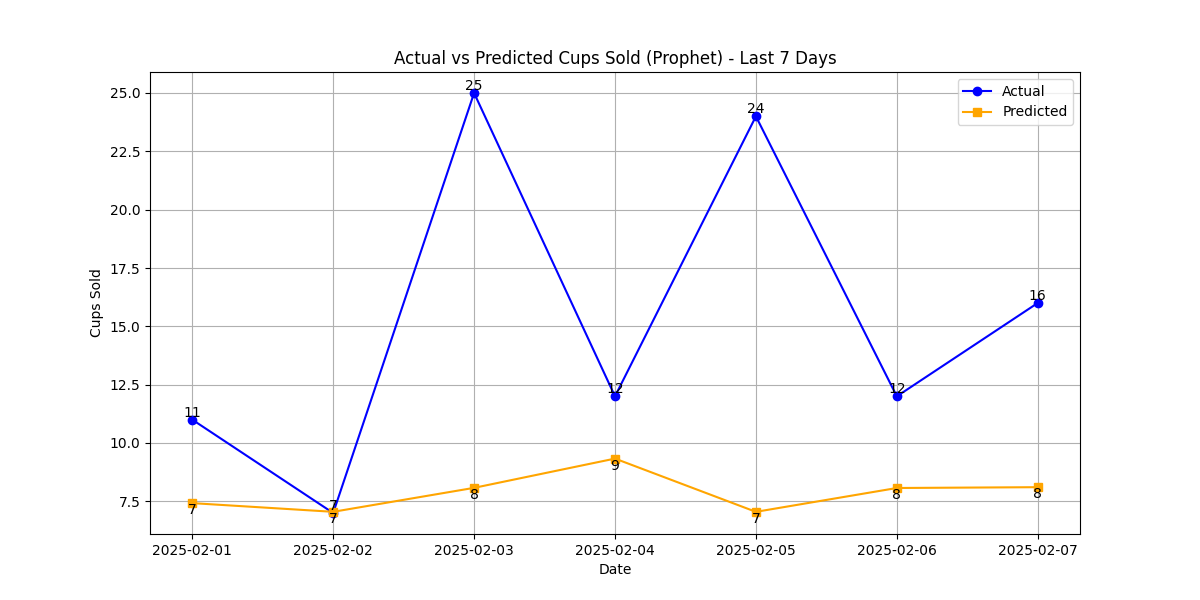
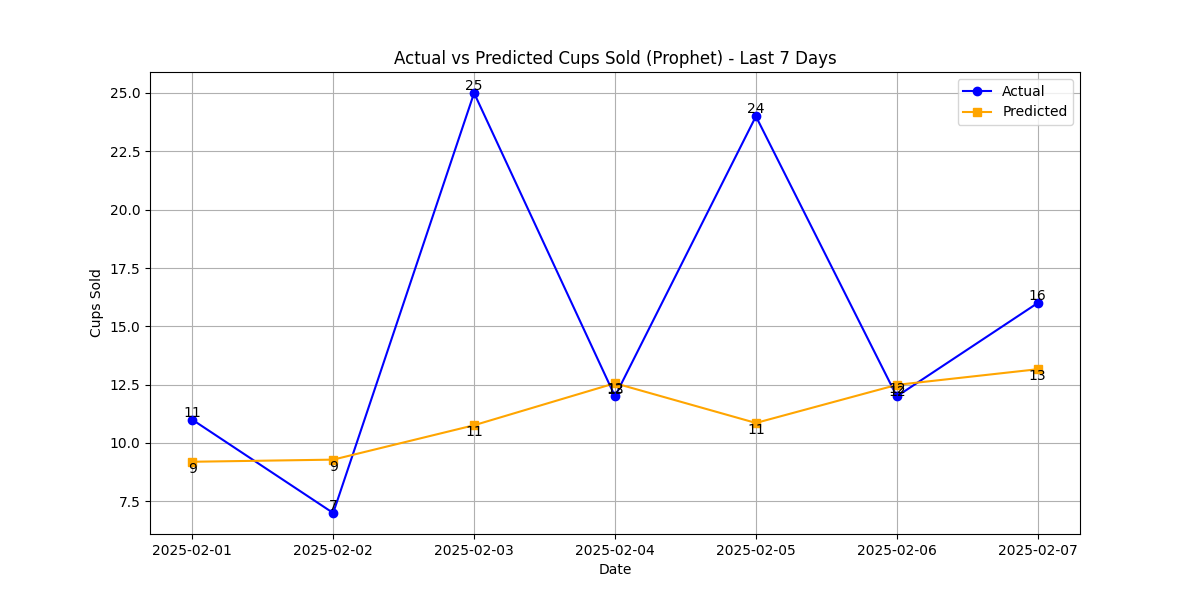
fbprophet for weather completed -- at 10:49 AM, Friday, 12 Dec 2025

diff --git a/scripts/weather_data_forecasting/fbprophet_forecasting.py b/scripts/weather_data_forecasting/fbprophet_forecasting.py
@@ -331,16 +331,18 @@ class ProphetForecaster:
 
 # Instantiate and run
 model = ProphetForecaster(
-    data_path=Path(__file__).parent.parent.parent / 'data' / 'intermediate' / 'merged_daily_weather_all.csv',  # Update to your single dataset
+    data_path=Path(__file__).parent.parent.parent / 'data' / 'intermediate' / 'merged_daily_weather_all.csv',
     target_col='cups_sold',
-    test_size=7
+    test_size=7,
+    yearly_seasonality=5,
+    weekly_seasonality=3
 )
 
 # Train the model
 model.train(
     growth='linear',
-    changepoint_prior_scale=0.05,
-    seasonality_prior_scale=10.0,
+    changepoint_prior_scale=0.001,
+    seasonality_prior_scale=1.0,
     verbose=True
 )
 
